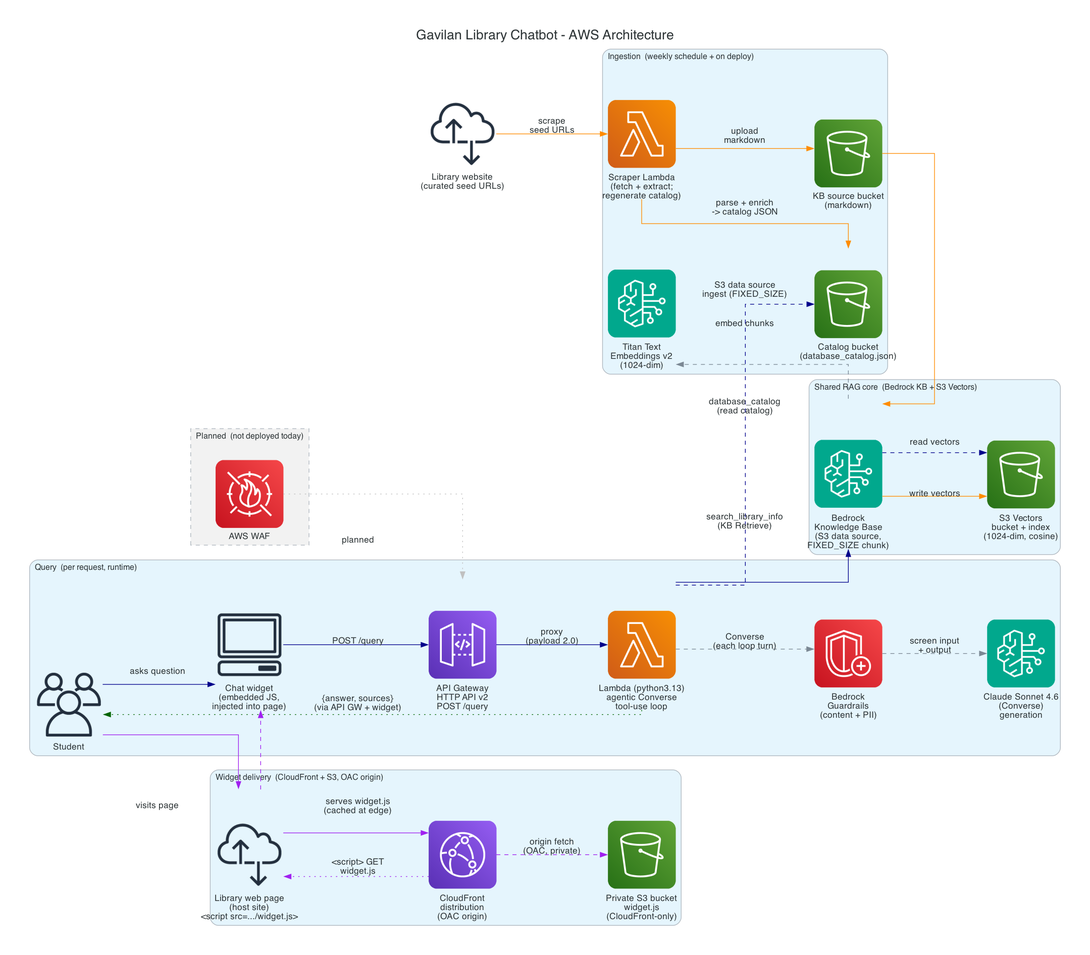
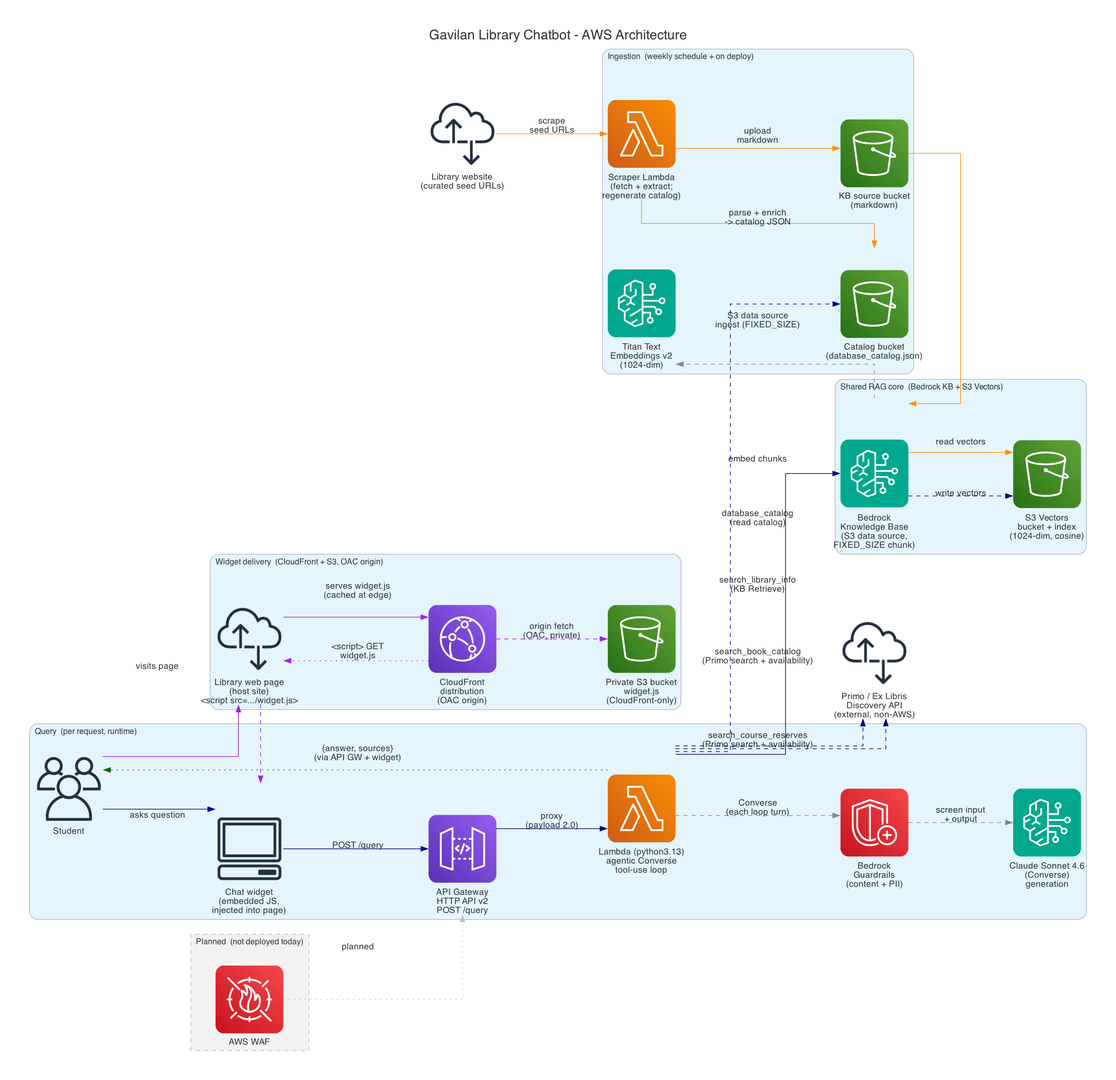
feat: udpdate documentation

diff --git a/docs/architecture_diagram.py b/docs/architecture_diagram.py
@@ -20,10 +20,15 @@ app/handler.py, scraper/):
     dims); FIXED_SIZE chunking on the S3 data source.
   - Vector store: Amazon S3 Vectors (CfnVectorBucket + CfnIndex, cosine, float32). The KB
     WRITES to it during ingestion and READS from it during query.
-  - Query path: API Gateway HTTP API v2 (POST /query) -> Lambda python3.13. The handler runs
-    an agentic Bedrock Converse tool-use loop (run_agent) with two tools:
-    search_library_info (KB Retrieve) and database_catalog (reads the catalog from S3). The
-    output guardrail is attached to every Converse call.
+  - Query path: API Gateway HTTP API v2 (POST /query) -> Lambda python3.13. The request
+    carries a multi-turn messages array (trimmed to the last 10 turns server-side). The handler
+    runs an agentic Bedrock Converse tool-use loop (run_agent) with FOUR tools:
+    search_library_info (KB Retrieve), database_catalog (reads the catalog from S3), and the two
+    live catalog tools search_book_catalog + search_course_reserves, which call the EXTERNAL Ex
+    Libris Primo discovery API directly (a search plus a per-record availability/delivery call).
+    So the query Lambda now reaches a third party on the hot path - it is no longer fully
+    AWS-internal; each Primo call is timed out and soft-fails. The output guardrail is attached
+    to every Converse call.
   - Widget delivery: private S3 bucket (widget.js) fronted by a CloudFront distribution with
     an OAC-secured origin, built in the SAME stack. Separate concern from the query path:
     CloudFront + S3 deliver the widget CODE to the browser; the injected widget then uses the
@@ -59,6 +64,10 @@ with Diagram(
 ):
     # External library website the scraper pulls from.
     library_site = InternetAlt1("Library website\n(curated seed URLs)")
+
+    # External (non-AWS) Ex Libris Primo discovery API the two live catalog tools call on the
+    # query hot path - the query Lambda is no longer fully AWS-internal.
+    primo_api = InternetAlt1("Primo / Ex Libris\nDiscovery API\n(external, non-AWS)")
 
     with Cluster("Ingestion  (weekly schedule + on deploy)"):
         scraper = Lambda("Scraper Lambda\n(fetch + extract;\nregenerate catalog)")
@@ -106,6 +115,10 @@ with Diagram(
     kb >> Edge(color="darkblue", style="dashed", label="read vectors") >> s3vectors
     # Tool 2 - database_catalog: read the catalog from S3.
     query_fn >> Edge(color="darkblue", style="dashed", label="database_catalog\n(read catalog)") >> catalog_bucket
+    # Tools 3 + 4 - the live Primo tools: outbound HTTPS to an EXTERNAL third party on the hot
+    # path (search + a per-record availability/delivery call), timed out and soft-failing.
+    query_fn >> Edge(color="darkblue", style="dashed", label="search_book_catalog\n(Primo search + availability)") >> primo_api
+    query_fn >> Edge(color="darkblue", style="dashed", label="search_course_reserves\n(Primo search + availability)") >> primo_api
     # Generation is screened by Bedrock Guardrails on every Converse call in the loop.
     query_fn >> Edge(style="dashed", label="Converse\n(each loop turn)") >> guardrails
     guardrails >> Edge(style="dashed", dir="both", label="screen input\n+ output") >> claude

diff --git a/CLAUDE.md b/CLAUDE.md
@@ -7,7 +7,8 @@ RAG chatbot for Gavilan College Library. Answers operational student questions (
 ## Stack
 
 - **RAG:** Amazon Bedrock Managed Knowledge Base (S3 data source) over an Amazon S3 Vectors store (Titan Embed v2, 1024-dim, cosine, semantic-only)
-- **Query path:** an agentic Bedrock `Converse` tool-use loop (`run_agent`); the model calls tools and the loop feeds results back until `end_turn`. Two tools: `search_library_info` (KB retrieval) and `database_catalog` (database availability + subject lookup). System prompt via the Converse `system` param.
+- **Query path:** an agentic Bedrock `Converse` tool-use loop (`run_agent`); the model calls tools and the loop feeds results back until `end_turn`. Four tools: `search_library_info` (KB retrieval), `database_catalog` (research-database availability + subject lookup, authoritative), `search_book_catalog` (Primo general catalog), `search_course_reserves` (Primo course reserves). System prompt via the Converse `system` param. Requests carry a multi-turn `messages` array (see `/query` contract).
+- **Live catalog (Primo):** `search_book_catalog` + `search_course_reserves` call the Ex Libris Primo discovery API directly - outbound HTTPS to a third party inside the agent loop, NOT an AWS API (no IAM). The query Lambda therefore needs outbound internet to reach Primo; a VPC without a NAT path would silently break these two tools. Every call is timed out and soft-fails, so a slow/broken Primo never kills `/query`.
 - **Ingestion:** a scraper Lambda pulls the library site into the KB source bucket (KB re-ingests) and regenerates the database catalog to S3, on a weekly schedule + on deploy
 - **Backend:** Lambda + HTTP API (API Gateway v2), Python
 - **Infra:** AWS CDK (Python), L1 `Cfn*` constructs; everything as code
@@ -46,12 +47,13 @@ Amazon S3 Vectors (`s3vectors.CfnVectorBucket` + `CfnIndex`); the KB `StorageCon
 
 ## `/query` contract (widget builds against this)
 
-`POST /query` response shape:
-`{ "answer": "<text>", "sources": [ {"uri": "<page url>", "excerpt": "<snippet>"} ] }`
+`POST /query` request shape (multi-turn): `{ "messages": [ {"role": "user"|"assistant", "content": "<text>"}, ... ] }`, oldest first, newest user turn last. Backward-compatible with the legacy `{ "query": "<text>" }` shape (treated as a single-message conversation). History is client-sent - the Lambda is stateless (no server-side conversation store) - and trimmed server-side to the last 10 messages (`MAX_HISTORY_MESSAGES`) before seeding the Converse loop.
 
-`sources` is deduplicated by uri; it accumulates from every `search_library_info` retrieval the model ran during the loop, plus one synthetic source (the library A-Z databases page) when `database_catalog` returned a result. Passages with no resolvable source uri are omitted; if the model answers without a tool call (e.g. a greeting), `sources` is `[]`.
+Response shape: `{ "answer": "<text>", "sources": [ {"uri": "<page url>", "excerpt": "<snippet>"} ] }`
 
-Query flow (`run_agent`): the user query is the first user message; the system prompt is passed via the Converse `system` parameter (never concatenated into the user message). Each turn calls `Converse` with the two-tool `toolConfig` and the output guardrail; on `stopReason == tool_use` the loop executes every requested tool, appends the `toolResult`s, and calls again, until `end_turn` (or a max-iteration cap). There is no `<context>` passage-injection - retrieved passages reach the model as tool results.
+`sources` is deduplicated by uri; it accumulates from every `search_library_info` retrieval the model ran during the loop, plus one synthetic source per tool that returned a result: the library A-Z databases page for `database_catalog`, and a per-query Primo discovery-search URL for each of `search_book_catalog` and `search_course_reserves`. `_extract_source` prefers the public `source_url` (the scraper's per-document metadata sidecar) over the internal S3 URI; a source that resolves only to an `s3://` URI is omitted so no bucket path reaches the client. If the model answers without a tool call (e.g. a greeting), `sources` is `[]`.
+
+Query flow (`run_agent`): the newest user turn is the current question; the trimmed history seeds the Converse `messages`, and the system prompt is passed via the Converse `system` parameter (never concatenated into the user message). Each turn calls `Converse` with the four-tool `toolConfig` and the output guardrail; on `stopReason == tool_use` the loop executes every requested tool, appends the `toolResult`s, and calls again, until `end_turn` (or a max-iteration cap). There is no `<context>` passage-injection - retrieved passages reach the model as tool results.
 
 ## Repo layout
 
@@ -60,13 +62,14 @@ Query flow (`run_agent`): the user query is the first user message; the system p
   - `infra/infra_stack.py` - the stack (`GavilanChatbotStack`)
   - `infra/config.py` - `load_config()`; resolves repo-root `config.yaml` from `__file__`
   - `tests/unit/` - `test_infra_stack.py` (Template.from_stack assertions), `test_handler.py` (boto3 stubbed, payload-2.0 events)
-- `app/` - query Lambda. `handler.py`: HTTP API (payload 2.0) entrypoint; `run_agent()` runs the agentic Converse tool-use loop over two tools (`search_library_info` -> KB `Retrieve`; `database_catalog` -> reads the catalog from S3). Wiring from env vars set by the stack. boto3 provided by the runtime.
-  - `system_prompt.md` - finalized system prompt (`<tools>` section carries the two-tool routing guidance); read once at cold start, passed via Converse `system`. Packaged via `Code.from_asset(app/)`.
+- `app/` - query Lambda. `handler.py`: HTTP API (payload 2.0) entrypoint; `run_agent()` runs the agentic Converse tool-use loop over four tools (`search_library_info` -> KB `Retrieve`; `database_catalog` -> reads the catalog from S3; `search_book_catalog` + `search_course_reserves` -> live Primo API calls, client inline in `handler.py`, no import). Wiring from env vars set by the stack. boto3 provided by the runtime.
+  - `system_prompt.md` - finalized system prompt (`<tools>` section carries the four-tool routing guidance; `<textbook_flow>` routes course textbooks to `search_course_reserves`); read once at cold start, passed via Converse `system`. Packaged via `Code.from_asset(app/)`.
   - `data/database_catalog.json` - bundled seed catalog: the hand-authored not-held list + a fallback held list, merged with the S3 held list at read time.
+  - `primo_search.py` - standalone CLI for exploring the Primo discovery API (dev tool; NOT imported by the handler and NOT in the `from_asset` bundle).
 - `scraper/` - scraper Lambda source. `scraper.py` (pure fetch/extract, incl. `extract_database_catalog` HTML parse) + `lambda_function.py` (S3 upload, KB ingestion trigger, catalog regeneration: parse -> Sonnet enrichment -> guard -> write to the catalog bucket). Own `.venv`/tests (needs trafilatura).
 - `eval/` - Bedrock RAG eval harness (boto3 tooling, NOT CDK). Runs on demand against deployed infra; cannot run offline. Retrieve-only formatter (chunking eval) + retrieve-and-generate formatter (answer quality, bring-your-own-inference). `capture_outputs.py` is a STUB until the bot is deployed. Separate `eval_config.yaml`.
-- `frontend/` - embeddable widget. `widget.js` is the ONLY file shipped (production-clean, no mock code); reads its endpoint from its `<script>` tag's `data-api-url`, POSTs `{query}`, renders `{answer, sources}`. `mock.js` (dev-only fetch stub) + `demo.html` (offline harness) + `test/widget.contract.test.js` (zero-dep Node tests) never ship; dependency direction is one-way (widget never references the mock).
-- `config.yaml` - declarative settings at repo root; embedding model, `vector_store` (S3 Vectors names, data_type, distance_metric, non-filterable keys), `scraper` seed URLs + schedule, `chunking`, `retrieval.number_of_results`, `generation.model_id`, `catalog` (enrichment model, S3 key, guard threshold, cache TTL), guardrail settings. CDK reads it at synth via `infra/config.py`. Edit values here, do not hardcode in the stack.
+- `frontend/` - embeddable widget. `widget.js` is the ONLY file shipped (production-clean, no mock code); reads its endpoint from its `<script>` tag's `data-api-url`, POSTs a multi-turn `{messages: [...]}` array, renders `{answer, sources}`. `mock.js` (dev-only fetch stub) + `demo.html` (offline harness) + `test/widget.contract.test.js` (zero-dep Node tests) never ship; dependency direction is one-way (widget never references the mock).
+- `config.yaml` - declarative settings at repo root; embedding model, `vector_store` (S3 Vectors names, data_type, distance_metric, non-filterable keys), `scraper` seed URLs + schedule, `chunking`, `retrieval.number_of_results`, `generation.model_id`, `catalog` (enrichment model, S3 key, guard threshold, cache TTL), `primo` (the live-catalog knobs `timeout_seconds`, `number_of_results`, `availability_budget_seconds`, wired as `PRIMO_*` env; `search_course_reserves` reuses the same knobs), guardrail settings. CDK reads it at synth via `infra/config.py`. Edit values here, do not hardcode in the stack.
 - `docs/` - design docs (`architecture.md`, `build-plan.md`, architecture diagram).
 
 ## Excluded (do not reintroduce)
@@ -102,3 +105,4 @@ Things learned the hard way. Read before repeating the same work.
 - **OAC + `auto_delete_objects` dependency cycle.** Do NOT add an explicit `distribution.node.add_dependency(bucket)`: the origin already references the bucket, and the explicit edge pulls in the bucket's auto-delete custom resource, which `DependsOn` the OAC bucket policy, which `DependsOn` the distribution -> a synth-blocking cycle. Surfaces in `Template.from_stack` (tests) even when plain `cdk synth` looks fine; keep infra tests in the loop.
 - **Config keys reach the from_asset Lambdas ONLY as stack-set env vars** (the bundle excludes config.yaml). A new runtime knob needs three touches - config.yaml, stack env-wiring, handler read - or it silently no-ops. Synth-time-only keys (throttle limits) are read by the stack directly and don't need the bridge.
 - **Invoking a Claude model needs a us.-prefixed inference profile** (bare model IDs are rejected), which requires `InvokeModel*` on the profile ARN plus foundation-model ARNs across routed regions, not the single-ARN on-demand grant. Applies to both the query Lambda's generation model and the scraper's catalog-enrichment model.
+- **A live third-party API in the agent loop must never be able to kill a request.** `search_book_catalog`/`search_course_reserves` hit the undocumented Primo discovery endpoint (search + a per-record delivery call for availability), whose fields use a `$$C..$$V..` / `$$R..$$V..$$M..` encoding - parse it defensively (never index blindly; a shape change must degrade, not throw). Every call is timed out with a total availability budget, and any failure soft-fails to a "catalog unavailable" toolResult so the loop still answers. Availability from the delivery call is a report of what the catalog SHOWS, not a guarantee a copy is on the shelf - the prompt phrases it that way, and `total == 0` is the only authoritative not-held signal (Primo relevance scores are query-relative, so the model judges matches).

diff --git a/docs/architecture.md b/docs/architecture.md
@@ -2,8 +2,8 @@
 
 **What:** RAG chatbot for Gavilan College Library. Answers operational questions (hours, checkout, textbooks, "what does the library offer"), routes research questions and out-of-scope issues.
 **Client:** Gavilan College Library via Cal Poly DxHub.
-**Status:** built.
-**Updated:** 2026-07-08
+**Status:** deployed to the gavilan AWS account; validated end-to-end (query path, four tools, multi-turn, guardrails).
+**Updated:** 2026-07-15
 
 ---
 
@@ -15,8 +15,9 @@
 | RAG engine | Bedrock Managed Knowledge Base | Managed chunk/embed/store. FIXED_SIZE chunking (300 tokens, 20% overlap). |
 | Vector store | Amazon S3 Vectors | `s3vectors.CfnVectorBucket` + `CfnIndex`; KB `StorageConfiguration` type `S3_VECTORS`, referenced by `IndexArn`. 1024-dim, cosine, `float32`, semantic-only. |
 | Embeddings | Titan Text Embeddings v2 (1024-dim) | Managed default. |
-| Query path | Agentic `Converse` tool-use loop (Lambda) | `run_agent`: the model calls tools; the loop feeds each `toolResult` back until `end_turn` (iteration cap). System prompt via the Converse `system` param. |
-| Tools | `search_library_info`, `database_catalog` | KB retrieval for general library questions; authoritative database availability + subject listing. Routing via tool descriptions + system-prompt guidance + `toolChoice` auto. |
+| Query path | Agentic `Converse` tool-use loop (Lambda) | `run_agent`: the model calls tools; the loop feeds each `toolResult` back until `end_turn` (iteration cap). Multi-turn `messages` seed; system prompt via the Converse `system` param. |
+| Tools | `search_library_info`, `database_catalog`, `search_book_catalog`, `search_course_reserves` | KB retrieval for general questions; authoritative research-database availability + subject listing; live Primo general-catalog and course-reserves search. Routing via tool descriptions + system-prompt guidance + `toolChoice` auto. |
+| Live catalog (external) | Ex Libris Primo discovery API | `search_book_catalog` + `search_course_reserves` call Primo directly (search + per-record availability/delivery call). Outbound HTTPS to a third party, not an AWS API (no IAM); query Lambda needs outbound internet. Timed out + soft-fail so a slow/broken Primo never kills `/query`. |
 | LLM (generation) | Bedrock-hosted Claude Sonnet 4.6 via Converse | Invoked through a `us.`-prefixed cross-region inference profile. |
 | Database catalog | Self-updating JSON in a dedicated S3 bucket | Scraper derives the held list from databases.php (HTML anchor parse + Sonnet enrichment for subjects/aliases); the hand-authored not-held list is a bundled seed merged at read time; the tool reads from S3 with per-container TTL caching. |
 | Orchestration/API | Lambda + HTTP API (API Gateway v2) | `POST /query`, `GET /warm`. Stage-level throttling. |
@@ -33,7 +34,7 @@
 
 **Ingest (scheduled + on deploy):** Scraper Lambda fetches the curated library seed URLs -> extracts clean markdown -> uploads to the KB source bucket -> triggers a KB ingestion job (FIXED_SIZE chunk -> Titan v2 embed -> S3 Vectors). In the same run it regenerates the database catalog from databases.php (deterministic HTML anchor parse for names/descriptions/URLs + a Sonnet call for subjects/aliases, constrained to the parsed names), validates it, and writes it to the catalog S3 bucket - keeping the last-good copy if validation fails, and never blocking the KB scrape. Weekly EventBridge schedule + one-click deploy Trigger.
 
-**Query (runtime):** Widget -> API Gateway (HTTP API, POST /query) -> Lambda. An input guardrail (`ApplyGuardrail`, source=INPUT) screens the bare query. Then `run_agent` runs the Converse tool-use loop under the system prompt: the model decides when to call `search_library_info` (KB `Retrieve`) or `database_catalog` (reads the catalog from S3), the loop executes each `toolUse` and feeds the `toolResult` back, repeating until `end_turn` (or the iteration cap). The output guardrail is attached to every Converse call. Response `{answer, sources[]}` returns to the widget: `sources` accumulate from the loop's KB retrievals (deduped by uri) plus the A-Z databases page when the catalog tool was used. On a guardrail block, the blocked message returns with empty sources.
+**Query (runtime):** Widget -> API Gateway (HTTP API, POST /query) -> Lambda. The request carries a multi-turn `messages` array (legacy `{query}` still accepted); history is client-sent (the Lambda is stateless) and trimmed server-side to the last 10 messages before seeding the loop. An input guardrail (`ApplyGuardrail`, source=INPUT) screens the newest user turn. Then `run_agent` runs the Converse tool-use loop under the system prompt: the model decides when to call `search_library_info` (KB `Retrieve`), `database_catalog` (reads the catalog from S3), or the two live Primo tools `search_book_catalog` / `search_course_reserves` (each a timed-out, soft-failing HTTPS call to the external Ex Libris Primo API); the loop executes each `toolUse` and feeds the `toolResult` back, repeating until `end_turn` (or the iteration cap). The output guardrail is attached to every Converse call. Response `{answer, sources[]}` returns to the widget: `sources` accumulate from the loop's KB retrievals (deduped by uri) plus one synthetic source per non-KB tool that returned a result - the A-Z databases page for `database_catalog`, a per-query discovery-search URL for each Primo tool. On a guardrail block, the blocked message returns with empty sources.
 
 **Widget delivery:** Browser loads the host library page -> its `<script>` tag fetches `widget.js` from CloudFront (served from private S3 via OAC) -> widget injects into the page -> widget calls the API Gateway `/query` (the query flow above).
 
@@ -42,21 +43,14 @@
 ## Decisions (resolved)
 
 1. **`Retrieve` via a tool, not `RetrieveAndGenerate`.** Full system-prompt control over out-of-scope and textbook behavior; the model calls Retrieve through `search_library_info`.
-2. **Two tools, model-routed.** `database_catalog` is authoritative for database availability (confirms when a named database is not held and suggests held alternatives) and subject listings; `search_library_info` handles hours/services/policies/how-to/borrowing/contact. Routing is via the tool descriptions + system-prompt guidance + `toolChoice` auto, not Lambda branches.
+2. **Four tools, model-routed.** `search_library_info` handles hours/services/policies/how-to/borrowing/contact; `database_catalog` is authoritative for research-database availability (confirms when a named database is not held and suggests held alternatives) and subject listings; `search_book_catalog` and `search_course_reserves` search the live Primo general catalog and course reserves. Routing is via the tool descriptions + system-prompt guidance + `toolChoice` auto, not Lambda branches.
 3. **Self-updating catalog with a robustness guard.** The held list is derived from the site on each scrape; the hand-authored not-held list is a bundled seed merged at read time; a minimum-count/required-field guard keeps the last-good catalog rather than overwrite it with garbage.
 4. **L1 `Cfn*` constructs.** L1 core covers KB, DataSource, S3 Vectors, and guardrails; the `generative-ai-cdk-constructs` Bedrock L2s are excluded (deprecated).
 5. **Same-stack widget hosting, OAC not OAI.** `S3BucketOrigin.with_origin_access_control`; one `cdk deploy`; cross-stack OAC hits a cyclical dependency.
 6. **Contextual grounding excluded from guardrails.** Not supported for conversational chatbot use (needs fragile `guardContent` tagging); the system prompt handles grounding. The output guardrail is content-filters-only.
 7. **WAF excluded.** HTTP API v2 cannot take WAF directly; API Gateway throttling is the cost-abuse control.
-
----
-
-## Open decisions
-
-1. **LLM model** — Sonnet 4.6 in use; confirm any DxHub/sponsor preference.
-2. **Refresh cadence** — weekly scrape baseline.
-3. **CORS** — `allow_origins` currently permissive; lock to the widget domain before launch.
-4. **Log store** — DynamoDB vs CloudWatch for conversation logging (deferred with multi-turn).
+8. **Live-catalog tools return evidence, not a verdict.** Unlike `database_catalog` (authoritative from a curated list), Primo relevance scores are query-relative - a held item can score below not-held noise - so `search_book_catalog`/`search_course_reserves` return the top candidate records for the model to judge; `total == 0` is the only clean not-held / not-on-reserve signal and the handler applies no score threshold. Availability comes from a per-record delivery call and is reported as what the catalog SHOWS, not a guarantee. Reliability posture: per-call timeout + total availability budget + soft-fail to a "catalog unavailable" `toolResult`, plus defensive parsing of Primo's `$$`-encoded fields, so a slow/broken external call never kills the loop.
+9. **Single-session multi-turn, client-carried.** The client sends the full `messages` history on each request; the Lambda is stateless (no DynamoDB, no server-side conversation store) and trims to the last 10 messages before seeding the Converse loop. Legacy `{query}` is treated as a single-message conversation.
 
 ---
 
@@ -69,3 +63,4 @@
 - **Bedrock native RAG eval (BYOI):** LLM-as-judge. `create_evaluation_job` with `precomputedRagSourceConfig`; retrieve-only metrics ContextCoverage/ContextRelevance; R&G metrics Correctness/Completeness/Faithfulness/Helpfulness/Harmfulness + citation metrics. Uses `referenceResponses`.
 - **CloudFront + S3 (CDK):** OAC via `S3BucketOrigin.with_origin_access_control` (auto-creates the OAC + bucket policy). Bucket needs bucket-owner-enforced ownership. Slow to create/destroy (~15-30 min).
 - **Scraper:** `httpx` + `trafilatura` for page markdown; `extract_database_catalog` parses the databases.php HTML table by link anchor (name = anchor text, description = the rest of the cell), which stays reliable even where the page has no name/description delimiter.
+- **Primo discovery API (live catalog tools):** verified against the public Ex Libris endpoint - `primaws/rest/pub/pnxs` search (`q=any,contains,...`; `scope=MyInstitution`/`tab=LibraryCatalog` for the general catalog, `scope=CourseReserves` for reserves) plus a per-record `/L/{recordid}?getDelivery=true` call for availability. No auth for discovery. `info.total` is the not-held / not-on-reserve signal; relevance is query-relative (not an absolute threshold). Fields are `$$`-encoded (creator; `crsinfo` carries course-code linkage, and a reserve record can serve multiple courses). Availability is a holding-level rollup ("catalog shows available"), not item-level truth - real-time due dates/copy counts would need the authenticated Alma API.

diff --git a/docs/build-plan.md b/docs/build-plan.md
@@ -2,7 +2,7 @@
 
 **Companion doc:** `architecture.md` (what the system is).
 **This doc:** todo tracker. Done / Next / V2.
-**Updated:** 2026-07-08
+**Updated:** 2026-07-15
 
 ---
 
@@ -21,26 +21,31 @@
   - [x] Two Bedrock guardrails (input screen + output backstop) + numbered versions
   - [x] Widget hosting: S3 + CloudFront (OAC) in the same stack; BucketDeployment of widget.js; CfnOutput embed tag
   - [x] `config.yaml` single source of truth
-- [x] **Query path** — agentic Converse tool-use loop (`run_agent`); two tools (`search_library_info`, `database_catalog`); `{answer, sources}` contract; input guardrail pre-loop, output guardrail on every Converse call
+- [x] **Query path** — agentic Converse tool-use loop (`run_agent`); four tools (`search_library_info`, `database_catalog`, `search_book_catalog`, `search_course_reserves`); `{answer, sources}` contract; input guardrail pre-loop, output guardrail on every Converse call
 - [x] **Self-updating catalog** — scraper parses databases.php (HTML anchor parse) + Sonnet enrichment (subjects/aliases) -> catalog S3 bucket; tool reads from S3 with TTL cache; hand-authored not-held seed merged at read time; robustness guard keeps last-good on failure
-- [x] **System prompt** — XML-structured, hard-grounding, `<tools>` routing guidance for the two tools
+- [x] **Live Primo catalog tools** — `search_book_catalog` (general catalog) + `search_course_reserves` (course reserves) call the Ex Libris Primo discovery API (search + per-record availability); evidence-not-verdict (model judges, `total == 0` the only not-held signal); timeout + availability budget + soft-fail; defensive `$$`-encoding parse; `<textbook_flow>` routes course textbooks to reserves
+- [x] **Single-session multi-turn** — client sends the `messages` history each request; stateless Lambda (no server-side store), trimmed to the last 10 messages before seeding the loop; legacy `{query}` still accepted (NOT the DynamoDB-backed design - see V2)
+- [x] **System prompt** — XML-structured, hard-grounding, `<tools>` routing guidance for the four tools + `<textbook_flow>`
 - [x] **Widget frontend** — vanilla JS, Shadow DOM isolation, self-injecting, reads `data-api-url`; production `widget.js` only (mock/demo/tests never ship)
+- [x] **Frontend polish** — widget sends the multi-turn `messages` array; markdown answer rendering; expandable chat window; sources UI; maroon Gavilan branding
 - [x] **Eval harness** — shared boto3 job-runner + CSV loader; retrieve-only + retrieve-and-generate formatters; baseline retrieve eval run
 
 ### Next
 
+- [x] **Deploy + validate live** — deployed to the gavilan account; `/query` validated end-to-end (four tools, multi-turn, guardrails, live Primo). Remaining spot checks: catalog populated from a real scrape, widget from the hosted script tag
 - [ ] **Provide sponsor context** — final seed URLs + any blacklist into `config.yaml`; sponsor Q&A set into `eval/datasets/`
-- [ ] **Deploy + validate live** — source URIs resolve, `/warm`, real `/query` end-to-end, guardrail mask-vs-block sanity check, catalog populated from a real scrape, widget from the hosted script tag
-- [ ] **Iterate** (eval-driven) — tune chunking, prompt behavior, guardrail thresholds; re-run retrieve + answer-quality evals
 - [ ] **CORS lockdown** — restrict `allow_origins` to the library widget domain before launch
+- [ ] **Parallelize Primo availability calls** — the per-record delivery calls run sequentially under a wall-clock budget; fan them out so slow availability lookups don't push toward the Lambda timeout
+- [ ] **Docs refresh** — CLAUDE.md + architecture.md done (four tools, multi-turn, Primo dependency); README + build-plan + diagram this pass
+- [ ] **Iterate** (eval-driven) — tune chunking, prompt behavior, guardrail thresholds; re-run retrieve + answer-quality evals
 - [ ] Confirm with Darren/sponsor: any institutional WAF mandate
 
 ---
 
 ## V2
 
-- [ ] **Conversation history / multi-turn** — DynamoDB chat store; Lambda reads prior turns before the loop, writes after; multi-turn system prompt. Requires architecture + prompt + diagram updates.
-- [ ] **Conversation logging** (DynamoDB vs CloudWatch) — deferred with multi-turn
+- [ ] **Persistent conversation store + logging** — server-side DynamoDB chat store (Lambda reads prior turns before the loop, writes after) and conversation logging (DynamoDB vs CloudWatch). Single-session multi-turn already shipped (client-carried, stateless - see Built); this is only the persistence/logging layer, which was NOT built.
+- [ ] **Authenticated Alma API** — real-time due dates + copy counts via the staff Alma API (API key); the upgrade path beyond the public Primo discovery endpoint's "catalog shows available" ceiling
 - [ ] Custom chunking Lambda (trafilatura) — if eval shows boilerplate hurting retrieval
-- [ ] Additional agent tools as gaps surface in eval
+- [ ] **More agent tools** — two live-catalog tools shipped (Primo general catalog + course reserves); add others as gaps surface in eval
 - [ ] Production hardening: auth (if sponsor wants), WAF (only if compliance-mandated)

diff --git a/README.md b/README.md
@@ -8,7 +8,8 @@ AWS-native:
 
 - **RAG:** Amazon Bedrock Managed Knowledge Base (S3 data source) over an Amazon S3 Vectors store (Titan Embed v2, 1024-dim, semantic search)
 - **Generation:** Bedrock-hosted Claude via an agentic Converse tool-use loop
-- **Tools:** `search_library_info` (KB retrieval) and `database_catalog` (self-updating database availability + subject lookup)
+- **Tools:** `search_library_info` (KB retrieval), `database_catalog` (research-database availability + subject lookup), `search_book_catalog` (Primo general catalog), and `search_course_reserves` (Primo course reserves)
+- **Live catalog:** `search_book_catalog` + `search_course_reserves` query the Ex Libris Primo discovery API directly - the only external, non-AWS dependency (timed out and soft-failing so a slow/broken Primo never blocks a response)
 - **Ingestion:** a scraper Lambda pulls the library site into the KB source bucket and regenerates the database catalog on a weekly schedule
 - **Backend:** Lambda + API Gateway (Python)
 - **Infrastructure:** AWS CDK (Python)
@@ -32,7 +33,7 @@ Full design: [`docs/architecture.md`](docs/architecture.md).
 
 ## Status
 
-In development.
+Deployed to the gavilan AWS account and validated end-to-end (query path, four tools, multi-turn, guardrails). Pre-launch hardening (CORS lockdown, sponsor content) still pending.
 
 ## License
 
